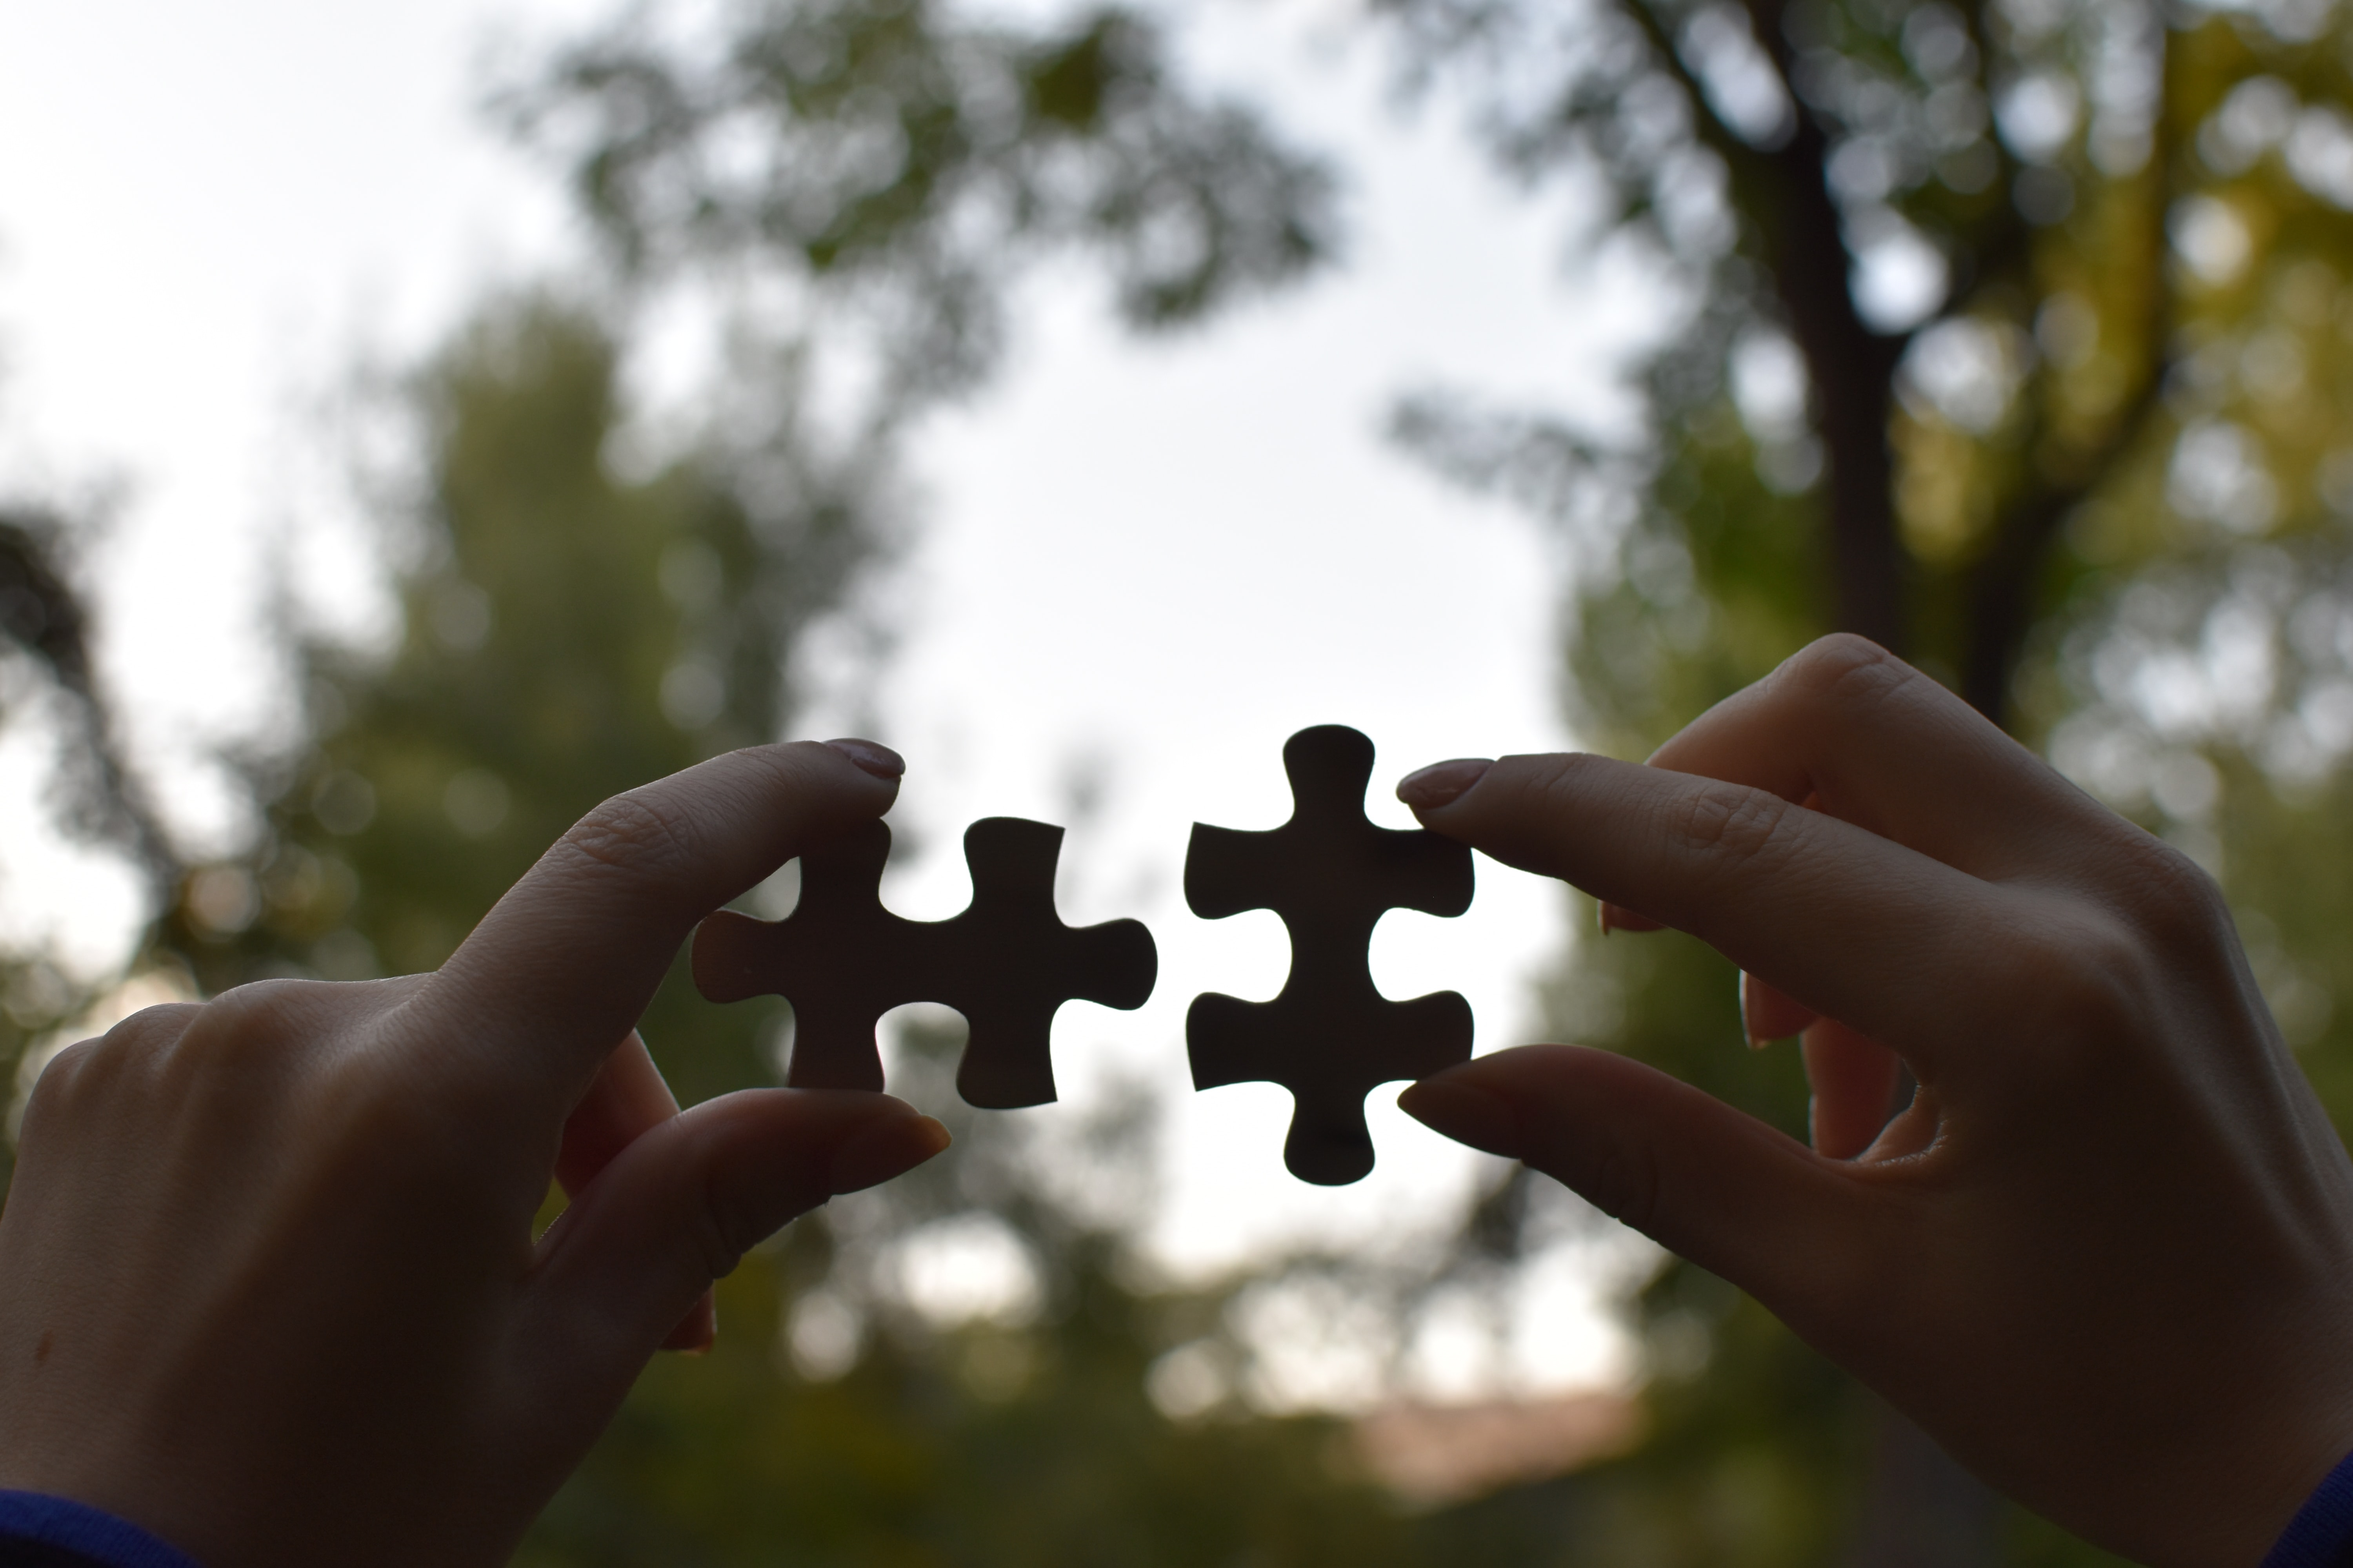
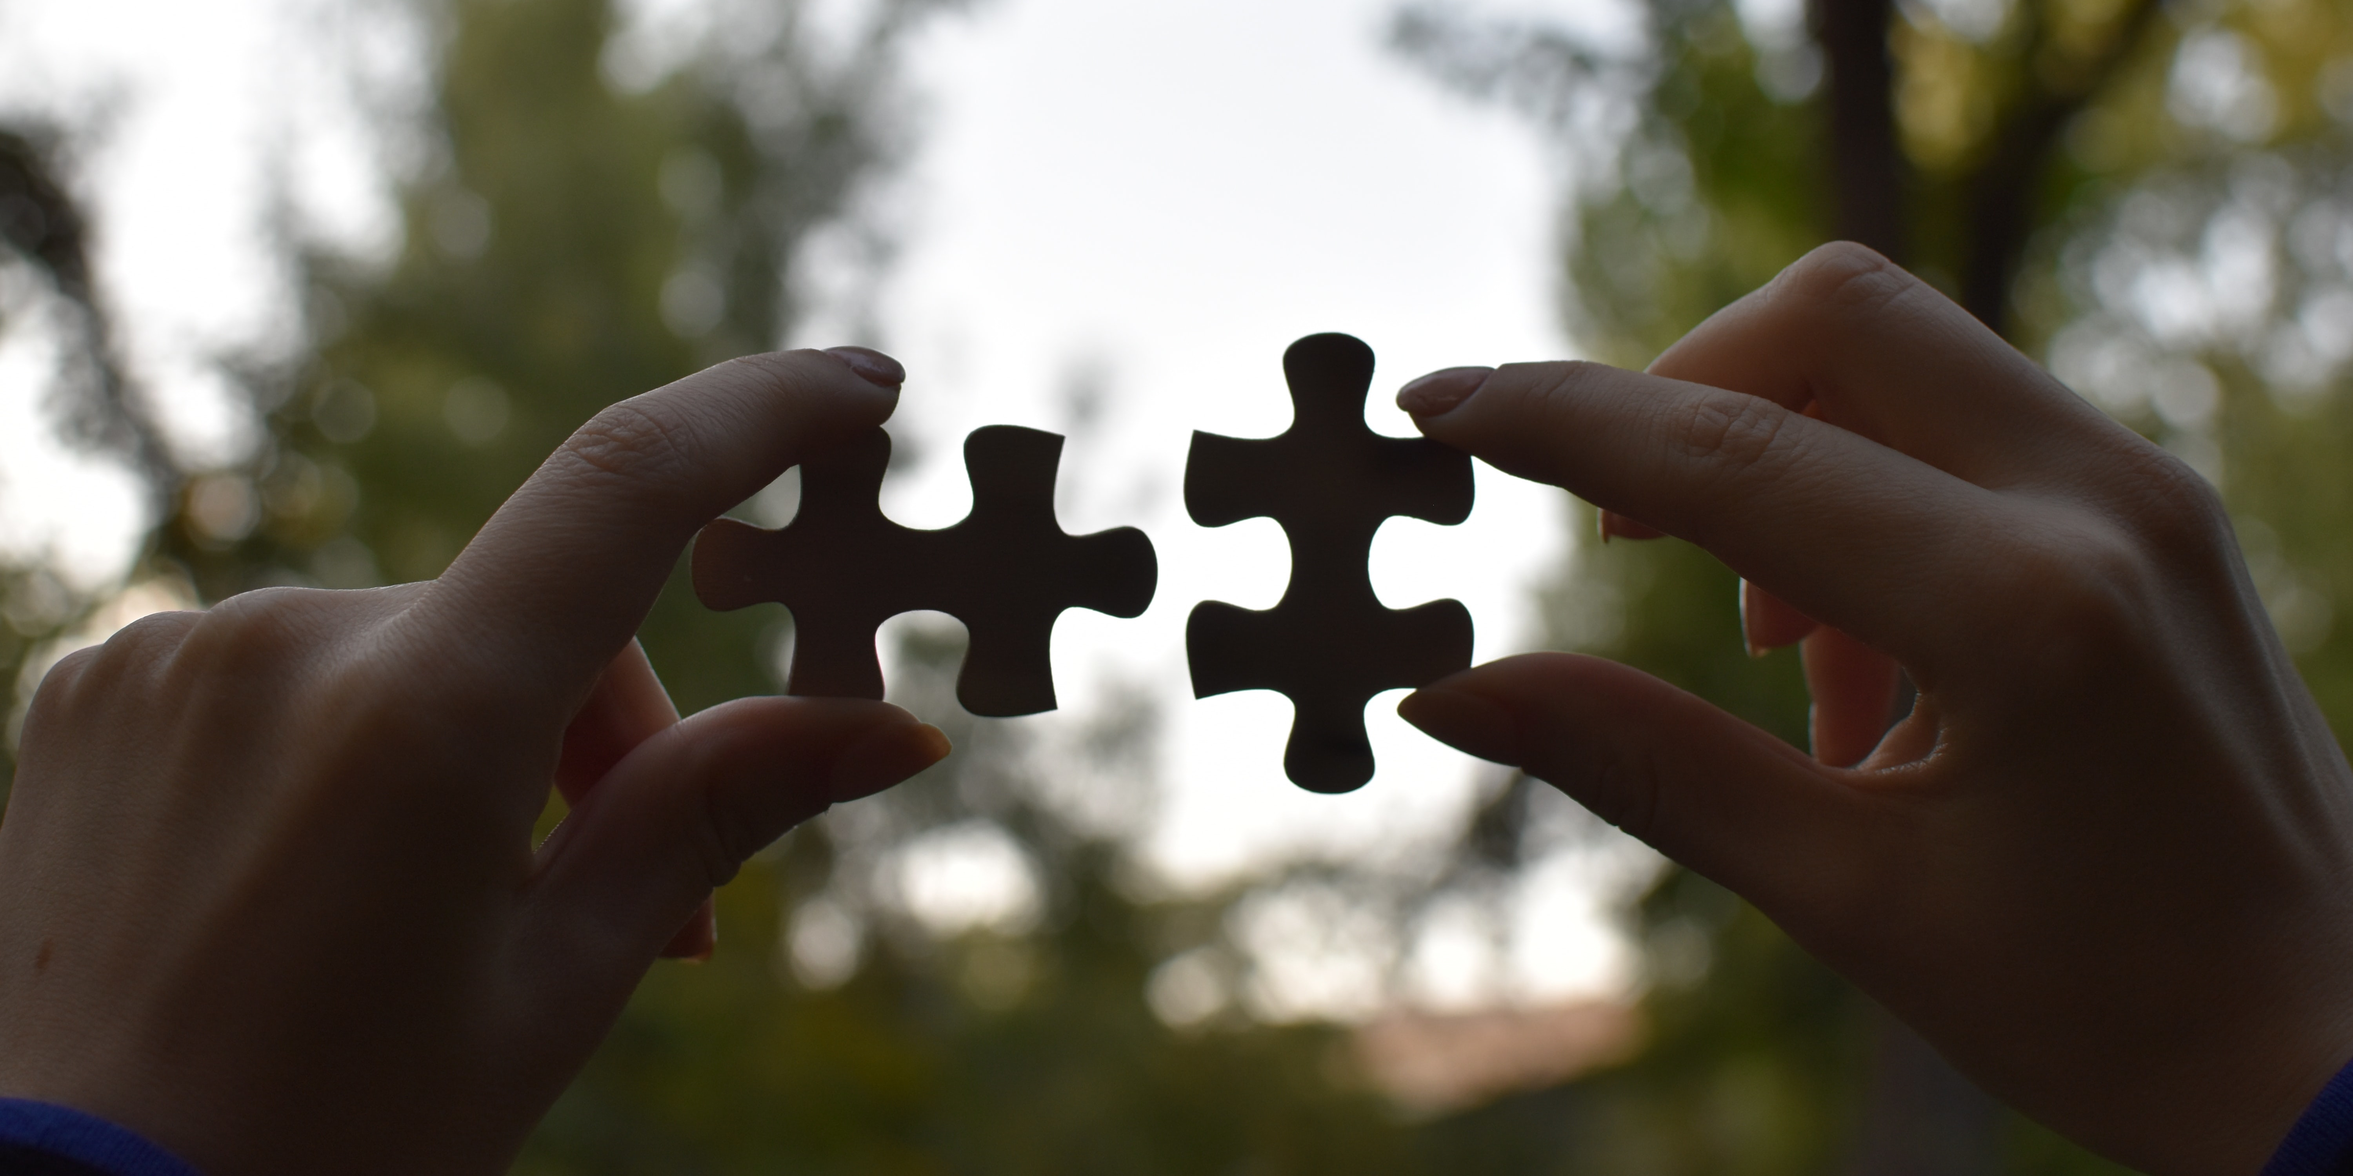
better image positioning

diff --git a/index.html b/index.html
@@ -22,6 +22,7 @@ layout: default
 			<div class="col-xs-12 col-md-5 side-image">
 				<div class="side-image-wrapper">
 					<img src="{{site.baseurl}}/assets/images/about_dmtr.jpg" alt="side-image" class="about-dmtr-image">
+<!--					<img src="{{site.baseurl}}/assets/images/about_dmtr2.jpg" alt="side-image" class="about-dmtr-image">-->
 				</div>
 			</div>
 

diff --git a/assets/css/style.css b/assets/css/style.css
@@ -1224,7 +1224,8 @@ figure {
 }
 
 .about-dmtr-image {
-	object-position: 42%;
+	object-position: 43%;
+	height: 400px !important;
 }
 
 .side-image {
